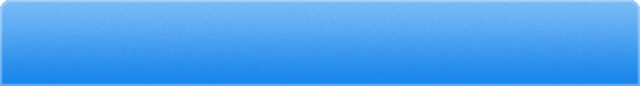
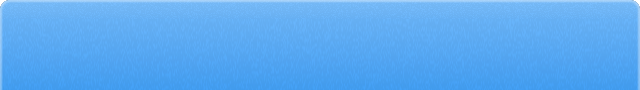
uinavigationbar appearance improve

diff --git a/TongjiXuanke/Views/SearchViewController.m b/TongjiXuanke/Views/SearchViewController.m
@@ -12,6 +12,7 @@
 #import "UILabel+Addition.h"
 #import "DataOperator.h"
 #import "NewsDetailViewController.h"
+#import "UINavigationBar+DropShadow.h"
 
 @implementation SearchViewController
 
@@ -37,7 +38,6 @@
     UILabel *titleLabel = [UILabel getNavBarTitleLabel:@"搜索全部"];
     
     self.navigationItem.titleView = titleLabel;
-    
 }
 
 - (void)viewDidLoad
@@ -65,6 +65,18 @@
 -(void) showCategorySelector
 {
     [PopoverView showPopoverAtPoint:CGPointMake(10,32) inView:self.view withContentView:categorySelection.view delegate:self];
+}
+
+-(void)viewWillAppear:(BOOL)animated
+{
+    self.navigationController.navigationBar.clipsToBounds = YES;
+    [self.navigationController.navigationBar dropShadowWithOffset:CGSizeMake(0, 0) radius:0.1 color:[UIColor blackColor] opacity:0.0];
+
+}
+
+-(void)viewDidDisappear:(BOOL)animated
+{
+    self.navigationController.navigationBar.clipsToBounds = NO;
 }
 
 - (void)viewDidAppear:(BOOL)animated
@@ -108,6 +120,9 @@
     }
     
     self.viewDeckController.panningMode = IIViewDeckFullViewPanning;
+    
+    [self.navigationController.navigationBar setBackgroundImage:[UIImage imageNamed:@"nav_bar_bg_search.png"] forBarMetrics:UIBarMetricsDefault];
+    
 }
 
 - (void)viewWillDisappear:(BOOL)animated

diff --git a/TongjiXuanke/Views/Setting/SettingTableViewController.m b/TongjiXuanke/Views/Setting/SettingTableViewController.m
@@ -13,8 +13,9 @@
 #import "IIViewDeckController.h"
 #import "NSNotificationCenter+Xuanke.h"
 #import "DataOperator.h"
+#import "UINavigationBar+DropShadow.h"
 
-#define RECOMMAND_TEXT @"我刚刚用了同济通知早知道，再也不用担心错过选课网上的通知啦。特有通知推送和离线查看功能，推荐你也来用。下载地址: http://sbhhbs.com/tzzzd_dl.php"
+#define RECOMMAND_TEXT @"我刚刚用了同济通知早知道，再也不用担心错过通知啦。特有通知推送和离线查看功能，推荐你也来用。下载地址: http://sbhhbs.com/tzzzd_dl.php"
 
 @interface SettingTableViewController ()
 
@@ -82,6 +83,8 @@
     
     [self.navigationController.navigationBar setBackgroundImage:[UIImage imageNamed:@"nav_bar_bg.png"] forBarMetrics:UIBarMetricsDefault];
 
+    self.navigationController.navigationBar.clipsToBounds = NO;
+    [self.navigationController.navigationBar dropShadowWithOffset:CGSizeMake(0, 2) radius:0.2 color:[UIColor blackColor] opacity:0.7];
 }
 
 - (void) showLeft

diff --git a/TongjiXuanke/Category/UINavigationBar+DropShadow.m b/TongjiXuanke/Category/UINavigationBar+DropShadow.m
@@ -1,0 +1,35 @@
+//
+//  UINavigationBar+DropShadow.m
+//  TongjiXuanke
+//
+//  Created by Song on 13-1-2.
+//  Copyright (c) 2013年 Song. All rights reserved.
+//
+
+#import "UINavigationBar+DropShadow.h"
+#import <QuartzCore/QuartzCore.h>
+@implementation UINavigationBar (DropShadow)
+
+- (void)dropShadowWithOffset:(CGSize)offset
+                      radius:(CGFloat)radius
+                       color:(UIColor *)color
+                     opacity:(CGFloat)opacity {
+    
+    // Creating shadow path for better performance
+    CGMutablePathRef path = CGPathCreateMutable();
+    CGPathAddRect(path, NULL, self.bounds);
+    self.layer.shadowPath = path;
+    CGPathCloseSubpath(path);
+    CGPathRelease(path);
+    
+    self.layer.shadowColor = color.CGColor;
+    self.layer.shadowOffset = offset;
+    self.layer.shadowRadius = radius;
+    self.layer.shadowOpacity = opacity;
+    
+    // Default clipsToBounds is YES, will clip off the shadow, so we disable it.
+    self.clipsToBounds = NO;
+    
+}
+
+@end

diff --git a/TongjiXuanke/Views/News/NewsDetailViewController.m b/TongjiXuanke/Views/News/NewsDetailViewController.m
@@ -16,6 +16,7 @@
 #import "NSNotificationCenter+Xuanke.h"
 #import "ReachabilityChecker.h"
 #import "UIViewController+KNSemiModal.h"
+#import "UINavigationBar+DropShadow.h"
 
 @interface NewsDetailViewController ()
 
@@ -250,6 +251,7 @@
     [fav_button addTarget:self action:@selector(clickFavButton) forControlEvents:UIControlEventTouchUpInside];
     
     [self.navigationController.navigationBar setBackgroundImage:[UIImage imageNamed:@"nav_bar_bg.png"] forBarMetrics:UIBarMetricsDefault];
+    //self.navigationController.navigationBar.clipsToBounds = NO;
     
 }
 
@@ -261,6 +263,12 @@
     [self matchFavoratebuttonApperaence:favorated];
     
 }
+
+- (void)viewDidAppear:(BOOL)animated
+{
+    [self.navigationController.navigationBar dropShadowWithOffset:CGSizeMake(0, 2) radius:0.2 color:[UIColor blackColor] opacity:0.7];
+}
+
 
 - (void)didReceiveMemoryWarning
 {

diff --git a/TongjiXuanke/Views/News/NewsTableViewController.m b/TongjiXuanke/Views/News/NewsTableViewController.m
@@ -24,6 +24,7 @@
 #import "NSNotificationCenter+Xuanke.h"
 #import "HelpViewController.h"
 #import <QuartzCore/QuartzCore.h>
+#import "UINavigationBar+DropShadow.h"
 
 @interface NewsTableViewController ()
 
@@ -74,6 +75,8 @@
 
     [self.navigationController.navigationBar setBackgroundImage:[UIImage imageNamed:@"nav_bar_bg.png"] forBarMetrics:UIBarMetricsDefault];
 
+    [self.navigationController.navigationBar dropShadowWithOffset:CGSizeMake(0, 2) radius:0.2 color:[UIColor blackColor] opacity:0.7];
+    
 }
 
 - (void) showLeft
@@ -274,7 +277,6 @@
 
 - (void)viewDidAppear:(BOOL)animated
 {
-    
     //[[SettingModal instance] finishTourialWithProgress:0];
     if([[SettingModal instance] needHelp] != -1)
     {

diff --git a/TongjiXuanke/Category/UINavigationBar+DropShadow.h b/TongjiXuanke/Category/UINavigationBar+DropShadow.h
@@ -1,0 +1,16 @@
+//
+//  UINavigationBar+DropShadow.h
+//  TongjiXuanke
+//
+//  Created by Song on 13-1-2.
+//  Copyright (c) 2013年 Song. All rights reserved.
+//
+
+#import <UIKit/UIKit.h>
+
+@interface UINavigationBar (DropShadow)
+- (void)dropShadowWithOffset:(CGSize)offset
+                      radius:(CGFloat)radius
+                       color:(UIColor *)color
+                     opacity:(CGFloat)opacity;
+@end
